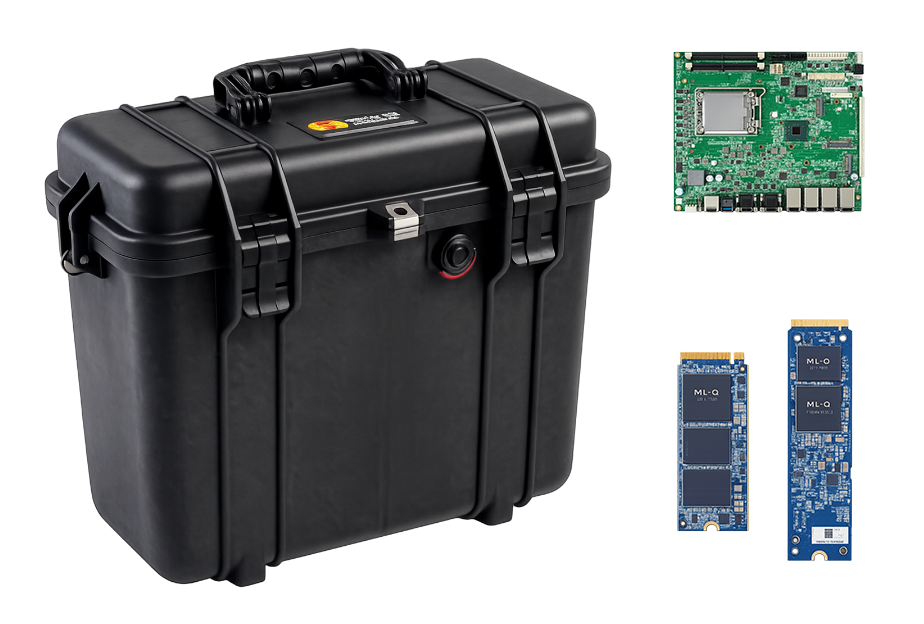
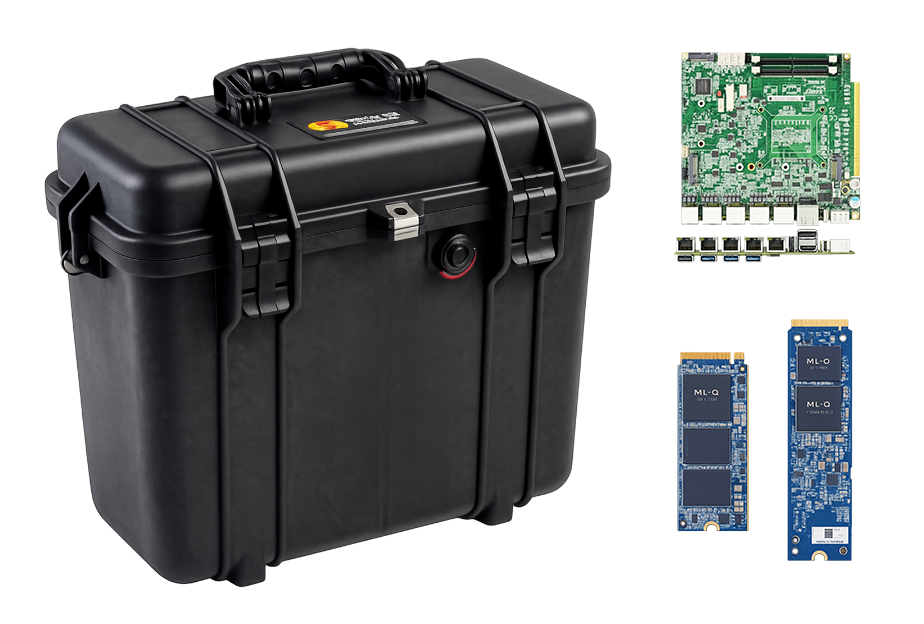
43ig메인이미지 변경

Changed region(s): [[0.7273, 0.0609, 0.9394, 0.4263]]

diff --git a/product/css/table.css b/product/css/table.css
@@ -1,13 +1,70 @@
-.sub-visual::before {
+.table-page .sub-visual {
+    position: relative;
+    width: 100%;
+    height: calc(100vh - 57px);
+    min-height: 750px;
+    display: flex;
+    align-items: center;
+    overflow: hidden;
+    background-position: center;
+    background-repeat: no-repeat;
+    background-size: cover;
+}
+
+.table-page .sub-visual::before {
     content: "";
     position: absolute;
     inset: 0;
-    background: rgba(0, 22, 42, 0.62);
+    background: rgba(0,0,0,.2);
 }
 
-.sub-visual > * {
-    position: relative;
-    z-index: 1;
+.table-page .sub-visual-text {
+    position: absolute;
+    top: 310px;
+    left: 120px;
+    z-index: 2;
+    color: #fff;
+}
+
+.table-page .sub-visual-text p {
+    font-size: 28px;
+    font-weight: 500;
+    color: #315fd6;;
+}
+
+.table-page .sub-visual-text h2 {
+    font-size: 50px;
+    line-height: 1.2;
+    font-weight: 600;
+}
+
+.table-page .sub-visual-text strong {
+    display: block;
+    margin-top: 170px;
+    font-size: 110px;
+    line-height: 1;
+    font-weight: 700;
+}
+
+.table-page .sub-visual-text strong::after {
+    content: '';
+    position: absolute;
+    display: block;
+    border-bottom: 1px solid #315fd6;
+}
+
+.table-page .sub-visual-product {
+    position: absolute;
+    right: 18%;
+    bottom: 0;
+    width: 34vw;
+    max-width: 650px;
+    z-index: 2;
+}
+
+.table-page .sub-visual-product img {
+    width: 100%;
+    display: block;
 }
 
 .table-page .design-section {

diff --git a/product/js/Productdetail.js b/product/js/Productdetail.js
@@ -2,9 +2,15 @@ const productData = {
 
     "43ig": {
 
-        title: "43IG",
+        title: "이동형 멀티터치<br> 테이블 디스플레이",
 
-        visualImg: "../img/bg5.png",
+        desc: "Built for On-the-Move Operations",
+
+        model: "43IG",
+
+        visualImg: "../img/bg11.png",
+
+        productImg: "../img/.png",
 
         sliderImages: [
             "../img/43IG-h.png",
@@ -252,3 +258,15 @@ document.getElementById("ruggedList").innerHTML =
 
 document.getElementById("subVisual").style.backgroundImage =
     `url(${product.visualImg})`;
+
+document.getElementById("subVisualDesc").textContent =
+    product.desc;
+
+document.getElementById("subVisualTitle").innerHTML =
+    product.title;
+
+document.getElementById("subVisualModel").textContent =
+    product.model;
+
+document.getElementById("subVisualProductImg").src =
+    product.productImg;

diff --git a/product/table.html b/product/table.html
@@ -111,7 +111,17 @@
         </div>
 
         <section class="sub-visual" id="subVisual">
-            <h2 id="subVisualTitle"></h2>
+            <div class="sub-visual-text">
+                <p id="subVisualDesc"></p>
+
+                <h2 id="subVisualTitle"></h2>
+
+                <strong id="subVisualModel"></strong>
+            </div>
+
+            <div class="sub-visual-product">
+                <img id="subVisualProductImg" src="" alt="">
+            </div>
         </section>
 
         <section class="product-view">
@@ -211,6 +221,7 @@
                         국내 기술력으로<br>
                         글로벌 산업 현장을<br>
                         지원합니다
+                        <img src="../img/flag.png" alt="">
                     </h2>
 
                     <a href="./made-in-korea.html" class="footer-btn">

diff --git a/product/css/product.css b/product/css/product.css
@@ -10,11 +10,12 @@
 
 /* 상단 비주얼 */
 .sub-visual {
-    height: 390px;
+    height: 900px;
     display: flex;
     justify-content: center;
     align-items: center;
-    background-color: #e9e9e9;;
+    background-repeat: no-repeat;
+    background-size: cover;
     position: relative;
 }
 
@@ -117,7 +118,7 @@
 }
 
 .detail-hero {
-    min-height: 760px;
+    min-height: 860px;
     padding: 120px 8%;
     display: flex;
     align-items: center;
@@ -194,7 +195,7 @@
 }
 
 .design-section {
-    min-height: 760px;
+    min-height: 860px;
     padding: 80px 8%;
     display: flex;
     align-items: center;

diff --git a/index.html b/index.html
@@ -220,7 +220,7 @@
                         국내 기술력으로<br>
                         글로벌 산업 현장을<br>
                         지원합니다
-                        <img src="./img/ta.png" alt="">
+                        <img src="./img/flag.png" alt="">
                     </h2>
 
                     <a href="./made-in-korea.html" class="footer-btn">

diff --git a/company/greeting.html b/company/greeting.html
@@ -148,6 +148,7 @@
                         국내 기술력으로<br>
                         글로벌 산업 현장을<br>
                         지원합니다
+                        <img src="../img/flag.png" alt="">
                     </h2>
 
                     <a href="./made-in-korea.html" class="footer-btn">

diff --git a/company/map.html b/company/map.html
@@ -149,6 +149,7 @@
                         국내 기술력으로<br>
                         글로벌 산업 현장을<br>
                         지원합니다
+                        <img src="../img/flag.png" alt="">
                     </h2>
 
                     <a href="./made-in-korea.html" class="footer-btn">

diff --git a/company/mission.html b/company/mission.html
@@ -150,6 +150,7 @@
                         국내 기술력으로<br>
                         글로벌 산업 현장을<br>
                         지원합니다
+                        <img src="../img/flag.png" alt="">
                     </h2>
 
                     <a href="./made-in-korea.html" class="footer-btn">

diff --git a/company/organization-chart.html b/company/organization-chart.html
@@ -158,6 +158,7 @@
                         국내 기술력으로<br>
                         글로벌 산업 현장을<br>
                         지원합니다
+                        <img src="../img/flag.png" alt="">
                     </h2>
 
                     <a href="./made-in-korea.html" class="footer-btn">

diff --git a/product/S-Series.html b/product/S-Series.html
@@ -125,6 +125,7 @@
                         국내 기술력으로<br>
                         글로벌 산업 현장을<br>
                         지원합니다
+                        <img src="../img/flag.png" alt="">
                     </h2>
 
                     <a href="./made-in-korea.html" class="footer-btn">

diff --git a/product/WSR213.html b/product/WSR213.html
@@ -278,6 +278,7 @@
                         국내 기술력으로<br>
                         글로벌 산업 현장을<br>
                         지원합니다
+                        <img src="../img/flag.png" alt="">
                     </h2>
 
                     <a href="./made-in-korea.html" class="footer-btn">

diff --git a/product/nvis.html b/product/nvis.html
@@ -152,6 +152,7 @@
                         국내 기술력으로<br>
                         글로벌 산업 현장을<br>
                         지원합니다
+                        <img src="../img/flag.png" alt="">
                     </h2>
 
                     <a href="./made-in-korea.html" class="footer-btn">